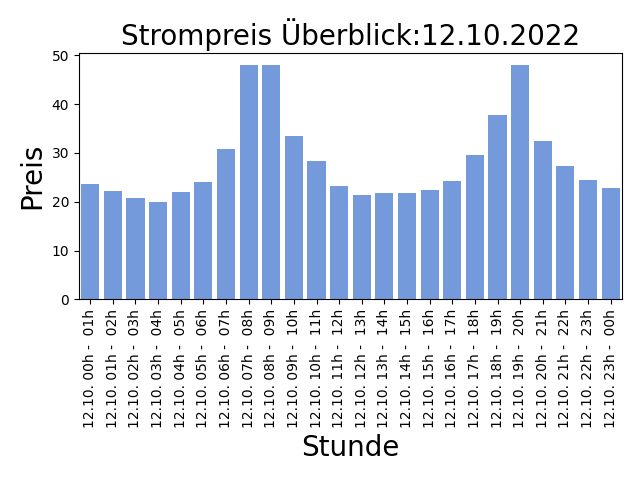
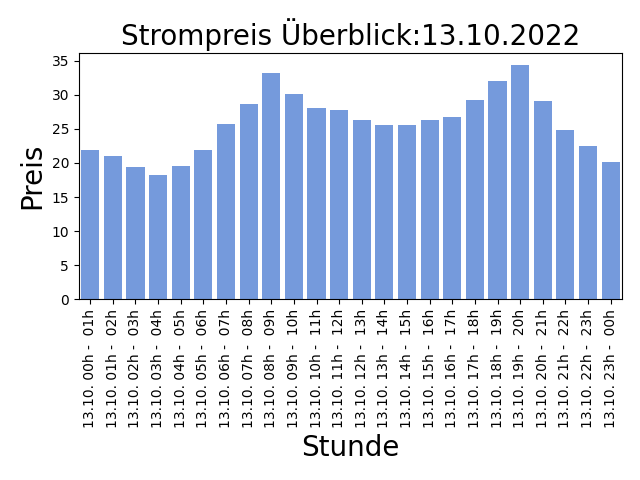
AUTOMATIC UPDATE PRICE LIST: 2022-10-12-14:30:08

diff --git a/README.md b/README.md
@@ -1,5 +1,5 @@
 
-## Strompreise für den 12.10.2022
+## Strompreise für den 13.10.2022
 
 Niedrige Preise deuten auf viel Sonnen und Windenergieerzeugung hin, ein hoher Anteil an erneuerbaren Energien bedeuted weniger CO2 Verbrauch!
 
@@ -7,31 +7,31 @@ Niedrige Preise deuten auf viel Sonnen und Windenergieerzeugung hin, ein hoher A
 
 | Stunde | Preis in Cent/kWh |
 |---|---|
-| 12.10. 00h -  01h | 23.657 | 
-| 12.10. 01h -  02h | 22.221 | 
-| 12.10. 02h -  03h | 20.756 | 
-| **12.10. 03h -  04h** | **19.899** | 
-| 12.10. 04h -  05h | 21.990000000000002 | 
-| 12.10. 05h -  06h | 24.068 | 
-| 12.10. 06h -  07h | 30.775 | 
-| 12.10. 07h -  08h | 48.012 | 
-| 12.10. 08h -  09h | 47.93 | 
-| 12.10. 09h -  10h | 33.403 | 
-| 12.10. 10h -  11h | 28.373 | 
-| 12.10. 11h -  12h | 23.208000000000002 | 
-| 12.10. 12h -  13h | 21.363999999999997 | 
-| 12.10. 13h -  14h | 21.79 | 
-| 12.10. 14h -  15h | 21.758000000000003 | 
-| 12.10. 15h -  16h | 22.431 | 
-| 12.10. 16h -  17h | 24.153 | 
-| 12.10. 17h -  18h | 29.508999999999997 | 
-| 12.10. 18h -  19h | 37.839999999999996 | 
-| 12.10. 19h -  20h | 47.997 | 
-| 12.10. 20h -  21h | 32.438 | 
-| 12.10. 21h -  22h | 27.302 | 
-| 12.10. 22h -  23h | 24.355 | 
-| 12.10. 23h -  00h | 22.857 | 
+| 13.10. 00h -  01h | 21.866 | 
+| 13.10. 01h -  02h | 21.0 | 
+| 13.10. 02h -  03h | 19.380000000000003 | 
+| **13.10. 03h -  04h** | **18.296** | 
+| 13.10. 04h -  05h | 19.502000000000002 | 
+| 13.10. 05h -  06h | 21.846 | 
+| 13.10. 06h -  07h | 25.747000000000003 | 
+| 13.10. 07h -  08h | 28.581 | 
+| 13.10. 08h -  09h | 33.253 | 
+| 13.10. 09h -  10h | 30.156 | 
+| 13.10. 10h -  11h | 28.005000000000003 | 
+| 13.10. 11h -  12h | 27.77 | 
+| 13.10. 12h -  13h | 26.27 | 
+| 13.10. 13h -  14h | 25.499000000000002 | 
+| 13.10. 14h -  15h | 25.5 | 
+| 13.10. 15h -  16h | 26.357999999999997 | 
+| 13.10. 16h -  17h | 26.705000000000002 | 
+| 13.10. 17h -  18h | 29.235000000000003 | 
+| 13.10. 18h -  19h | 31.966 | 
+| 13.10. 19h -  20h | 34.37 | 
+| 13.10. 20h -  21h | 29.01 | 
+| 13.10. 21h -  22h | 24.854 | 
+| 13.10. 22h -  23h | 22.519 | 
+| 13.10. 23h -  00h | 20.206 | 
 
 Preise der EPEX Spot ® Strombörse (neue Preise werden täglich um 14:00 veröffentlicht für den kompletten nächsten Tag).
 
-letzte Aktualisierung:11.10.2022 14:30
+letzte Aktualisierung:12.10.2022 14:30
